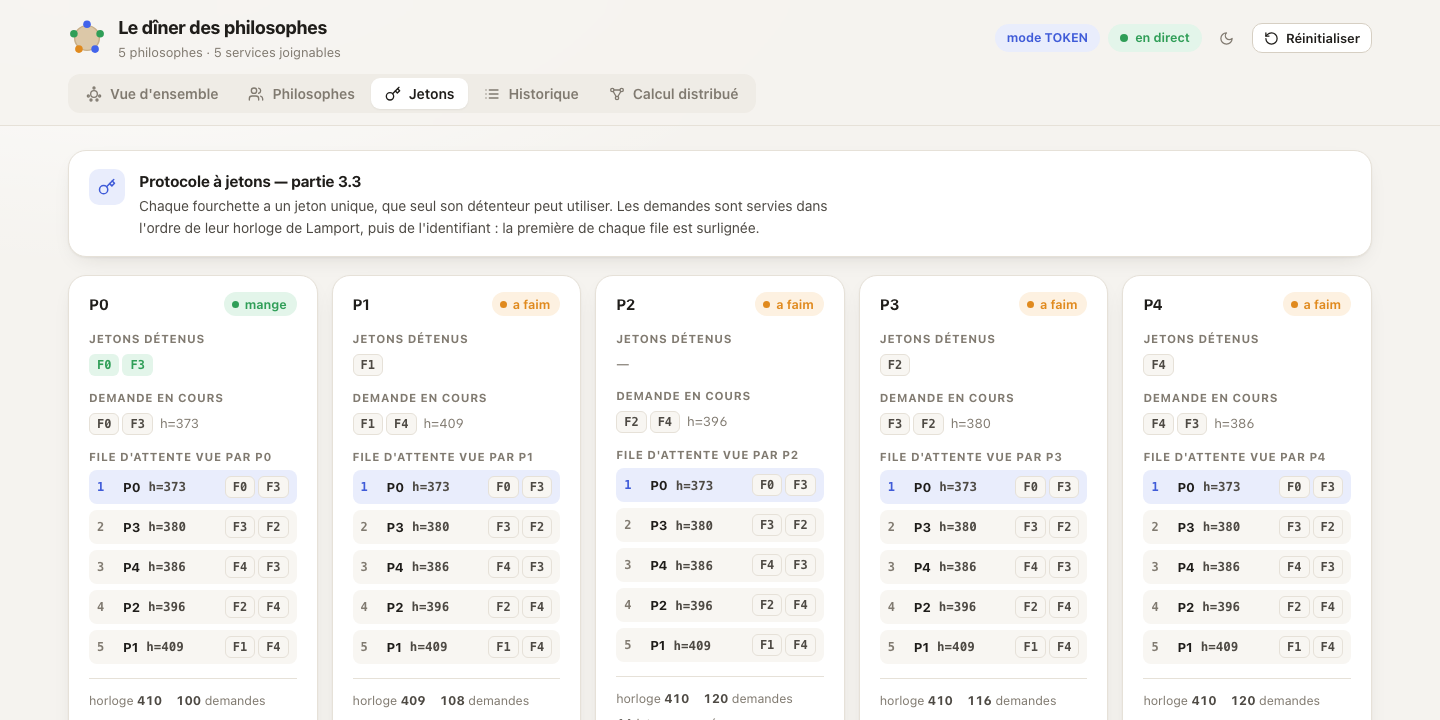
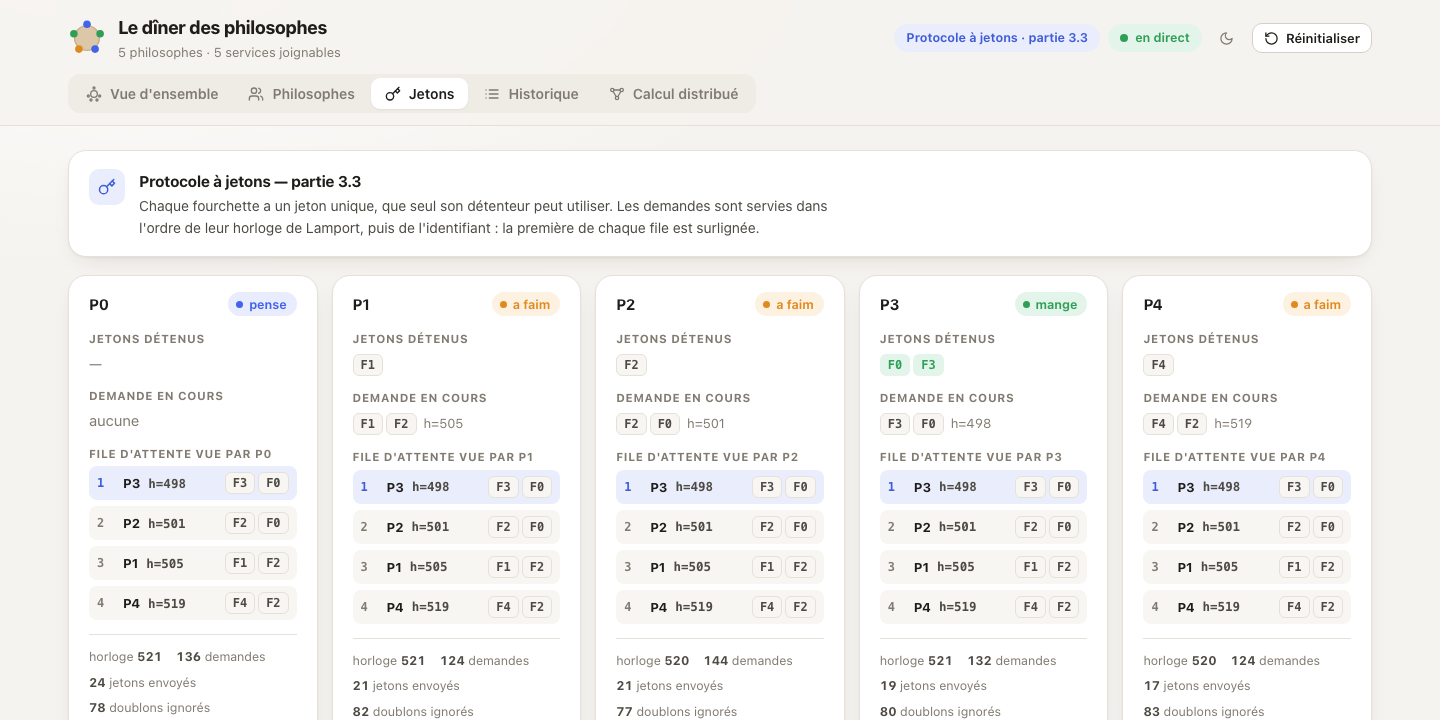
Interface : table animée, jetons visibles, fil d'activité, libellés français
- La table est construite une fois puis mise à jour : les fourchettes
  glissent vers le philosophe qui les prend.
- Avec le protocole à jetons, chaque jeton est affiché devant son
  détenteur (ou en transit) : on voit les jetons circuler.
- Fil d'activité en français (« P3 mange avec F1 et F3 »).
- Compteurs animés, modes affichés en clair (« Protocole à jetons ·
  partie 3.3 »), légende des fourchettes.
- Captures du rapport mises à jour.

diff --git a/PROJET/dining-philosophers/monitor-service/src/main/resources/static/index.html b/PROJET/dining-philosophers/monitor-service/src/main/resources/static/index.html
@@ -193,7 +193,29 @@ main { padding-top: 24px; padding-bottom: 56px; }
 .seat-halo { opacity: 0; transition: opacity .3s; }
 .seat.EATING .seat-halo { opacity: 1; animation: halo 2.2s ease-in-out infinite; transform-box: fill-box; transform-origin: center; }
 @keyframes halo { 0%, 100% { opacity: .55; transform: scale(1); } 50% { opacity: .2; transform: scale(1.12); } }
-.fork-link { stroke: var(--eating); stroke-width: 3.5; stroke-linecap: round; opacity: .6; }
+.fork-g { transition: transform .75s cubic-bezier(.22, .9, .25, 1); }
+.fork-g circle { fill: var(--surface); stroke: var(--wood-edge); stroke-width: 1.5; transition: fill .3s, stroke .3s; }
+.fork-g text { fill: var(--muted); font: 800 11px var(--mono); transition: fill .3s; }
+.fork-g[data-kind="eat"] circle { fill: var(--eating); stroke: var(--eating); }
+.fork-g[data-kind="eat"] text { fill: #fff; }
+.fork-g[data-kind="hold"] circle { fill: var(--accent-soft); stroke: var(--accent); }
+.fork-g[data-kind="hold"] text { fill: var(--accent); }
+.fork-g[data-kind="transit"] circle { fill: var(--hungry-soft); stroke: var(--hungry); stroke-dasharray: 3 3; }
+.fork-g[data-kind="transit"] text { fill: var(--hungry); }
+.seat-body { transition: fill .35s; }
+.legend .sep { width: 1px; height: 14px; background: var(--line-strong); }
+.fk { display: inline-grid; place-items: center; width: 18px; height: 18px; border-radius: 50%; font: 800 9px var(--mono); }
+.fk.eat { background: var(--eating); color: #fff; }
+.fk.hold { background: var(--accent-soft); color: var(--accent); box-shadow: inset 0 0 0 1.5px var(--accent); }
+.fk.free { background: var(--surface); color: var(--muted); box-shadow: inset 0 0 0 1.5px var(--wood-edge); }
+.feed { list-style: none; margin: 0; padding: 0; display: grid; grid-template-columns: repeat(2, minmax(0, 1fr)); gap: 8px 18px; }
+.feed li { display: flex; align-items: center; gap: 10px; padding: 8px 10px; border-radius: 10px; background: var(--surface-2);
+           font-size: 14px; animation: feed-in .35s ease-out; min-width: 0; }
+.feed li .avatar { width: 26px; height: 26px; font-size: 11px; flex: none; }
+.feed li .what { flex: 1; min-width: 0; white-space: nowrap; overflow: hidden; text-overflow: ellipsis; }
+.feed li .when { color: var(--muted); font-size: 12.5px; font-variant-numeric: tabular-nums; white-space: nowrap; }
+@keyframes feed-in { from { opacity: 0; transform: translateX(-6px); } to { opacity: 1; transform: none; } }
+@media (max-width: 960px) { .feed { grid-template-columns: 1fr; } }
 .legend { display: flex; justify-content: center; flex-wrap: wrap; gap: 6px 18px; padding: 8px 20px 18px; font-size: 13px; color: var(--text-2); }
 .legend span { display: inline-flex; align-items: center; gap: 7px; }
 .legend i { width: 10px; height: 10px; border-radius: 50%; background: var(--c); box-shadow: 0 0 0 3px color-mix(in srgb, var(--c) 18%, transparent); }
@@ -434,13 +456,17 @@ footer { max-width: 1360px; margin: 0 auto; padding: 0 28px 28px; color: var(--m
 
         <div class="cols">
             <div class="card">
-                <div class="card-head"><h2>La table</h2><span class="hint">un trait vert relie chaque philosophe qui mange à ses fourchettes</span></div>
+                <div class="card-head"><h2>La table</h2><span class="hint" id="table-hint">les fourchettes glissent vers le philosophe qui les prend</span></div>
                 <div class="table-wrap"><svg id="table" viewBox="-20 -20 480 480" role="img" aria-label="Table des philosophes"></svg></div>
                 <div class="legend">
                     <span style="--c: var(--thinking)"><i></i>pense</span>
                     <span style="--c: var(--hungry)"><i></i>a faim</span>
                     <span style="--c: var(--eating)"><i></i>mange</span>
                     <span style="--c: var(--stopped)"><i></i>arrêté</span>
+                    <span class="sep"></span>
+                    <span><b class="fk eat">F</b>fourchette utilisée</span>
+                    <span id="legend-hold"><b class="fk hold">F</b>jeton détenu</span>
+                    <span><b class="fk free">F</b>libre</span>
                 </div>
             </div>
             <div class="stack">
@@ -458,6 +484,10 @@ footer { max-width: 1360px; margin: 0 auto; padding: 0 28px 28px; color: var(--m
                 </div>
             </div>
         </div>
+        <div class="card" style="margin-top:18px">
+            <div class="card-head"><h2>Fil d'activité</h2><span class="hint">les derniers événements reçus par le moniteur</span></div>
+            <div class="card-body"><ol class="feed" id="feed"></ol></div>
+        </div>
     </section>
 
     <!-- ================================================================ PHILOSOPHES -->
@@ -468,7 +498,7 @@ footer { max-width: 1360px; margin: 0 auto; padding: 0 28px 28px; color: var(--m
                 <div>
                     <h2>Simuler une panne</h2>
                     <p>« Arrêter » interrompt la boucle d'un philosophe : il rend ses fourchettes et cesse de manger, mais son service
-                        reste joignable — en mode TOKEN, il continue de céder ses jetons à ceux qui les demandent.</p>
+                        reste joignable : avec le protocole à jetons, il continue de céder ses jetons à ceux qui les demandent.</p>
                 </div>
             </div>
             <div class="card flush">
@@ -571,6 +601,26 @@ const icon = (name, cls = '') => `<svg class="${cls}"><use href="#i-${name}"/></
 const forks = (list, hot) => (list && list.length)
     ? list.map(f => `<span class="fork${hot ? ' hot' : ''}">F${f}</span>`).join('') : '<span class="none">—</span>';
 const stateBadge = st => `<span class="state ${st}">${labels[st] || st}</span>`;
+const modeLabels = {
+    SPOILED: 'Philosophes gâtés · partie 1', NAIVE_SUPERVISOR: 'Superviseur naïf · partie 2',
+    PAIR_SUPERVISOR: 'Superviseur, deux fourchettes · 3.1 / 3.2', TOKEN: 'Protocole à jetons · partie 3.3',
+    ZOOKEEPER: 'Verrous ZooKeeper · partie 3.4'
+};
+const modeShort = { SPOILED: 'gâtés', NAIVE_SUPERVISOR: 'superviseur naïf', PAIR_SUPERVISOR: 'superviseur', TOKEN: 'jetons', ZOOKEEPER: 'ZooKeeper' };
+
+/** Fait défiler un compteur jusqu'à sa nouvelle valeur. */
+function tween(el, to, format = fmtInt) {
+    const from = Number(el.dataset.v ?? to);
+    el.dataset.v = to;
+    if (from === to || matchMedia('(prefers-reduced-motion: reduce)').matches) { el.textContent = format(to); return; }
+    const start = performance.now(), dur = 600;
+    const step = now => {
+        const k = Math.min(1, (now - start) / dur), e = 1 - Math.pow(1 - k, 3);
+        el.textContent = format(from + (to - from) * e);
+        if (k < 1 && Number(el.dataset.v) === to) requestAnimationFrame(step);
+    };
+    requestAnimationFrame(step);
+}
 
 async function json(url, options) {
     const r = await fetch(url, options);
@@ -624,41 +674,78 @@ let state = null, cluster = [];
 // Débit et courbe : calculés à partir de l'historique du moniteur (heures de réception des DONE), donc justes dès
 // l'ouverture de la page. « now » = dernier événement reçu par le serveur : insensible au décalage d'horloge.
 let mealLog = { now: 0, times: [] };
+let recentEvents = [];     // fil d'activité
+let tokenStates = [];      // état du protocole à jetons de chaque philosophe (mode TOKEN)
 const nodeOf = id => cluster.find(c => c.id === id);
 const isStopped = id => { const c = nodeOf(id); return !!c && (!c.reachable || (c.status && c.status.state === 'STOPPED')); };
 const shownState = p => isStopped(p.id) ? 'STOPPED' : p.state;
 
 // ------------------------------------------------------------------ vue d'ensemble
-function drawTable(philosophers) {
-    const n = philosophers.length, cx = 220, cy = 220, R = 170, forkR = 104;
-    const angle = i => 2 * Math.PI * i / n - Math.PI / 2;
-    const pos = i => [cx + R * Math.cos(angle(i)), cy + R * Math.sin(angle(i))];
-    const forkPos = f => { const a = angle(f) - Math.PI / n; return [cx + forkR * Math.cos(a), cy + forkR * Math.sin(a)]; };
+// La table est construite une fois, puis seulement mise à jour : les fourchettes glissent (transition CSS)
+// au lieu d'être redessinées, ce qui rend les échanges visibles.
+const T = { cx: 220, cy: 220, R: 170, forkR: 104, n: 0 };
+const seatAngle = i => 2 * Math.PI * i / T.n - Math.PI / 2;
+const seatPos = i => [T.cx + T.R * Math.cos(seatAngle(i)), T.cy + T.R * Math.sin(seatAngle(i))];
+const homePos = f => { const a = seatAngle(f) - Math.PI / T.n; return [T.cx + T.forkR * Math.cos(a), T.cy + T.forkR * Math.sin(a)]; };
+/** Place de la k-ième fourchette (sur m) posée devant le philosophe i. */
+function plateSpot(i, k, m) {
+    const a = seatAngle(i), r = T.R - 66, spread = 30 * (k - (m - 1) / 2);
+    return [T.cx + r * Math.cos(a) - spread * Math.sin(a), T.cy + r * Math.sin(a) + spread * Math.cos(a)];
+}
+
+function buildTable(n) {
+    T.n = n;
     let svg = `<defs>
         <radialGradient id="wood" cx="45%" cy="40%" r="70%"><stop offset="0%" stop-color="var(--wood)"/><stop offset="100%" stop-color="var(--wood-2)"/></radialGradient>
         <filter id="lift" x="-30%" y="-30%" width="160%" height="160%"><feDropShadow dx="0" dy="3" stdDeviation="4" flood-opacity=".18"/></filter></defs>
-        <circle cx="${cx}" cy="${cy}" r="132" fill="url(#wood)" stroke="var(--wood-edge)" stroke-width="2"/>
-        <circle cx="${cx}" cy="${cy}" r="58" fill="none" stroke="var(--wood-edge)" stroke-opacity=".5" stroke-dasharray="2 6"/>`;
-    philosophers.forEach(p => {
-        if (p.state !== 'EATING') return;
-        const [x, y] = pos(p.id);
-        (p.forks || []).forEach(f => { const [fx, fy] = forkPos(f); svg += `<line class="fork-link" x1="${x}" y1="${y}" x2="${fx}" y2="${fy}"/>`; });
-    });
+        <circle cx="${T.cx}" cy="${T.cy}" r="132" fill="url(#wood)" stroke="var(--wood-edge)" stroke-width="2"/>
+        <circle cx="${T.cx}" cy="${T.cy}" r="58" fill="none" stroke="var(--wood-edge)" stroke-opacity=".5" stroke-dasharray="2 6"/>`;
+    for (let i = 0; i < n; i++) {
+        const [x, y] = seatPos(i);
+        svg += `<g class="seat UNKNOWN" id="seat-${i}" filter="url(#lift)">
+                <circle class="seat-halo" cx="${x}" cy="${y}" r="44" fill="var(--eating)" opacity="0"/>
+                <circle class="seat-body" cx="${x}" cy="${y}" r="35" fill="var(--c)" stroke="var(--surface)" stroke-width="4"/>
+                <text x="${x}" y="${y - 2}" text-anchor="middle" fill="#fff" font-weight="800" font-size="16">P${i}</text>
+                <text id="seat-sub-${i}" x="${x}" y="${y + 14}" text-anchor="middle" fill="#fff" fill-opacity=".92" font-size="11" font-weight="600"></text></g>`;
+    }
     for (let f = 0; f < n; f++) {
-        const [fx, fy] = forkPos(f);
-        const used = philosophers.some(p => p.state === 'EATING' && (p.forks || []).includes(f));
-        svg += `<g><circle cx="${fx}" cy="${fy}" r="15" fill="${used ? 'var(--eating)' : 'var(--surface)'}" stroke="${used ? 'var(--eating)' : 'var(--wood-edge)'}" stroke-width="1.5"/>
-                <text x="${fx}" y="${fy + 4}" text-anchor="middle" font-size="11" font-weight="800" font-family="var(--mono)" fill="${used ? '#fff' : 'var(--muted)'}">F${f}</text></g>`;
+        const [fx, fy] = homePos(f);
+        svg += `<g class="fork-g" id="fork-${f}" data-kind="free" style="transform: translate(${fx}px, ${fy}px)">
+                <circle r="15"/><text y="4" text-anchor="middle">F${f}</text></g>`;
+    }
+    $('table').innerHTML = svg;
+}
+
+function drawTable(philosophers) {
+    const n = philosophers.length;
+    if (T.n !== n) buildTable(n);
+    // qui tient quelle fourchette ? (mange) d'après le moniteur, (jeton détenu, en transit) d'après le protocole
+    const holder = new Map();
+    philosophers.forEach(p => { if (p.state === 'EATING') (p.forks || []).forEach(f => holder.set(f, { who: p.id, kind: 'eat' })); });
+    tokenStates.forEach(t => {
+        if (!t) return;
+        (t.heldTokens || []).forEach(f => { if (!holder.has(f)) holder.set(f, { who: t.id, kind: 'hold' }); });
+        Object.entries(t.inTransit || {}).forEach(([f, to]) => { if (!holder.has(+f)) holder.set(+f, { who: to, kind: 'transit' }); });
+    });
+    const perSeat = new Map();
+    holder.forEach((h, f) => { if (!perSeat.has(h.who)) perSeat.set(h.who, []); perSeat.get(h.who).push(f); });
+    for (let f = 0; f < n; f++) {
+        const g = $('fork-' + f), h = holder.get(f);
+        let x, y;
+        if (h) { const list = perSeat.get(h.who).sort((a, b) => a - b); [x, y] = plateSpot(h.who, list.indexOf(f), list.length); }
+        else [x, y] = homePos(f);
+        g.style.transform = `translate(${x.toFixed(1)}px, ${y.toFixed(1)}px)`;
+        g.dataset.kind = h ? h.kind : 'free';
     }
     philosophers.forEach(p => {
-        const [x, y] = pos(p.id), st = shownState(p);
-        svg += `<g class="seat ${st}" filter="url(#lift)">
-                <circle class="seat-halo" cx="${x}" cy="${y}" r="44" fill="var(--eating)" opacity="0"/>
-                <circle cx="${x}" cy="${y}" r="35" fill="var(--c)" stroke="var(--surface)" stroke-width="4"/>
-                <text x="${x}" y="${y - 2}" text-anchor="middle" fill="#fff" font-weight="800" font-size="16">P${p.id}</text>
-                <text x="${x}" y="${y + 14}" text-anchor="middle" fill="#fff" fill-opacity=".92" font-size="11" font-weight="600">${labels[st]} · ${p.meals}</text></g>`;
+        const st = shownState(p);
+        $('seat-' + p.id).setAttribute('class', `seat ${st}`);
+        $('seat-sub-' + p.id).textContent = `${labels[st]} · ${p.meals}`;
     });
-    $('table').innerHTML = svg;
+    $('legend-hold').style.display = tokenStates.length ? '' : 'none';
+    $('table-hint').textContent = tokenStates.length
+        ? 'chaque jeton est posé devant le philosophe qui le détient : on le voit circuler'
+        : 'les fourchettes glissent vers le philosophe qui les prend';
 }
 
 async function loadMealTimes() {
@@ -666,6 +753,8 @@ async function loadMealTimes() {
     if (!events.length) { mealLog = { now: 0, times: [] }; return; }
     const at = e => new Date(e.receivedAt).getTime();
     const now = Math.max(...events.map(at));
+    recentEvents = events.slice().sort((a, b) => at(b) - at(a) || b.sequence - a.sequence).slice(0, 10)
+        .map(e => ({ ...e, ago: Math.max(0, Math.round((now - at(e)) / 1000)) }));
     mealLog = { now, times: events.filter(e => e.event.type === 'DONE').map(at).filter(t => now - t <= 60000) };
 }
 
@@ -686,10 +775,24 @@ function drawSpark() {
         <text x="6" y="14" font-size="11" fill="var(--muted)">max ${max.toFixed(1)} repas / s</text>`;
 }
 
+function renderFeed() {
+    const say = e => {
+        const ev = e.event, f = (ev.forks || []).map(x => 'F' + x);
+        if (ev.type === 'HUNGRY') return 'a faim et demande ses fourchettes';
+        if (ev.type === 'EATING') return f.length ? `mange avec ${f.join(' et ')}` : 'mange';
+        return 'a fini de manger, il rend ses fourchettes';
+    };
+    const st = { HUNGRY: 'HUNGRY', EATING: 'EATING', DONE: 'THINKING' };
+    $('feed').innerHTML = recentEvents.map(e => `<li class="${st[e.event.type]}" data-k="${e.sequence}">
+        <span class="avatar">P${e.event.philosopherId}</span><span class="what"><b>P${e.event.philosopherId}</b> ${say(e)}</span>
+        <span class="when">${e.ago === 0 ? 'à l\'instant' : 'il y a ' + e.ago + ' s'}</span></li>`).join('')
+        || '<li class="UNKNOWN"><span class="what muted">en attente des premiers événements…</span></li>';
+}
+
 function renderOverview() {
     const ps = state.philosophers, meals = ps.map(p => p.meals), total = meals.reduce((a, b) => a + b, 0);
-    $('k-meals').textContent = fmtInt(total);
-    $('k-events').textContent = fmtInt(state.totalEvents);
+    tween($('k-meals'), total);
+    tween($('k-events'), state.totalEvents);
     $('k-stale').textContent = `${fmtInt(state.staleEvents)} arrivé(s) hors ordre`;
     $('k-conflicts').textContent = state.conflicts.length;
     $('k-conflicts-card').classList.toggle('bad', state.conflicts.length > 0);
@@ -697,9 +800,10 @@ function renderOverview() {
     const max = Math.max(...meals), min = Math.min(...meals);
     $('k-fair').textContent = max > 0 ? (min / max).toFixed(2) : '—';
     const rate = mealLog.times.filter(t => mealLog.now - t <= 30000).length * 2;      // repas sur 30 s × 2 = par minute
-    $('k-rate').textContent = fmtInt(rate);
+    tween($('k-rate'), rate, v => fmtInt(Math.round(v)));
     drawTable(ps);
     drawSpark();
+    renderFeed();
     $('states').innerHTML = ['THINKING', 'HUNGRY', 'EATING', 'STOPPED'].map(st => {
         const who = ps.filter(p => shownState(p) === st || (st === 'STOPPED' && shownState(p) === 'UNKNOWN'));
         return `<div class="state-tile ${st}"><div class="n">${who.length}</div><div class="t">${labels[st]}</div>
@@ -723,7 +827,7 @@ function renderPhilosophers() {
         const share = total ? Math.round(100 * p.meals / total) : 0;
         const svc = c.reachable === undefined ? '<span class="none">—</span>'
             : !c.reachable ? '<span class="svc off">injoignable</span>'
-            : `<span class="svc ${running ? '' : 'stopped'}">${esc(s.mode || '')} · ${running ? 'actif' : 'arrêté'}</span>`;
+            : `<span class="svc ${running ? '' : 'stopped'}">${esc(modeShort[s.mode] || s.mode || '')} · ${running ? 'actif' : 'arrêté'}</span>`;
         const action = !c.reachable ? '' : running
             ? `<button class="btn sm quiet-danger" data-act="stop" data-id="${p.id}">${icon('stop')}Arrêter</button>`
             : `<button class="btn sm success" data-act="start" data-id="${p.id}">${icon('play')}Redémarrer</button>`;
@@ -752,10 +856,15 @@ $('philosophers').addEventListener('click', async e => {
 
 // ------------------------------------------------------------------ jetons
 const emptyState = (ico, text) => `<div class="card empty" style="grid-column:1/-1">${icon(ico)}<div>${text}</div></div>`;
+const tokenNodes = () => cluster.filter(c => c.reachable && c.status && c.status.mode === 'TOKEN');
+async function loadTokenStates() {
+    const nodes = tokenNodes();
+    tokenStates = nodes.length ? await Promise.all(nodes.map(c => json(`/api/cluster/${c.id}/token-state`).catch(() => null))) : [];
+}
 async function renderTokens() {
-    const nodes = cluster.filter(c => c.reachable && c.status && c.status.mode === 'TOKEN');
-    if (!nodes.length) { $('tokens').innerHTML = emptyState('key', 'Aucun philosophe en mode TOKEN.<br>Lancez <code>./scripts/run-local.sh TOKEN</code>.'); return; }
-    const states = await Promise.all(nodes.map(c => json(`/api/cluster/${c.id}/token-state`).catch(() => null)));
+    const nodes = tokenNodes();
+    if (!nodes.length) { $('tokens').innerHTML = emptyState('key', 'Aucun philosophe n\'utilise le protocole à jetons.<br>Lancez <code>./scripts/run-local.sh TOKEN</code>.'); return; }
+    const states = tokenStates;
     $('tokens').innerHTML = states.map((t, i) => {
         if (!t) return `<div class="card token-card"><div class="card-head"><h2>P${nodes[i].id}</h2></div><div class="card-body muted">état indisponible</div></div>`;
         const st = t.eating ? 'EATING' : t.current ? 'HUNGRY' : 'THINKING';
@@ -857,7 +966,7 @@ function drawBars(rows) {
 async function refreshCluster() {
     try { cluster = await json('/api/cluster'); } catch { cluster = []; }
     const modes = [...new Set(cluster.filter(c => c.reachable && c.status).map(c => c.status.mode))];
-    $('mode').textContent = modes.length ? 'mode ' + modes.join(', ') : 'philosophes injoignables';
+    $('mode').textContent = modes.length ? modes.map(m => modeLabels[m] || m).join(' + ') : 'philosophes injoignables';
 }
 let tick = 0;
 async function refresh() {
@@ -866,6 +975,7 @@ async function refresh() {
         state = await json('/api/state');
         if (activeTab === 'overview') await loadMealTimes();
         if (tick++ % 2 === 0 || activeTab === 'philosophers' || activeTab === 'tokens') await refreshCluster();
+        if (activeTab === 'overview' || activeTab === 'tokens') await loadTokenStates();
     } catch (err) {
         $('live').className = 'chip down'; $('live-text').textContent = 'moniteur injoignable';
         return;

diff --git a/PROJET/dining-philosophers/docs/rapport-technique.md b/PROJET/dining-philosophers/docs/rapport-technique.md
@@ -190,8 +190,10 @@ Le moniteur sert un panneau de contrôle (<http://localhost:8080>). Il se met à
 onglets. Le navigateur ne parle qu'au moniteur, qui relaie les commandes vers les philosophes
 (`/api/cluster`).
 
-**Vue d'ensemble.** La table en direct : chaque philosophe qui mange est relié en vert aux fourchettes qu'il
-tient. On y trouve aussi :
+**Vue d'ensemble.** La table en direct. Les fourchettes **glissent** vers le philosophe qui les prend. Avec le
+protocole à jetons, chaque jeton est posé devant le philosophe qui le détient, ce qui permet de **voir les jetons
+circuler** autour de la table. Un **fil d'activité** raconte les derniers événements (« P3 mange avec F1 et
+F3 »). On y trouve aussi :
 - le débit et la courbe des repas par seconde, calculés à partir de l'historique du moniteur, donc justes
   dès l'ouverture de la page ;
 - la répartition des états ;
@@ -221,6 +223,9 @@ philosophes voient le même ordre de priorité.
 
 **Choix de conception.**
 - Une couleur par état (pense, a faim, mange, arrêté), la même partout : table, badges, tableaux.
+- Une table construite une seule fois puis mise à jour, pour que les déplacements des fourchettes soient animés
+  au lieu d'être redessinés d'un coup.
+- Des libellés en français, par exemple « Protocole à jetons · partie 3.3 » plutôt que `TOKEN`.
 - Un thème clair et un thème sombre : celui du système par défaut, ou forcé avec le bouton ou `?theme=dark`.
 - Un lien direct vers chaque onglet (`/#tokens`).
 - Une mise en page adaptée au mobile, une navigation au clavier visible, et des animations coupées si
